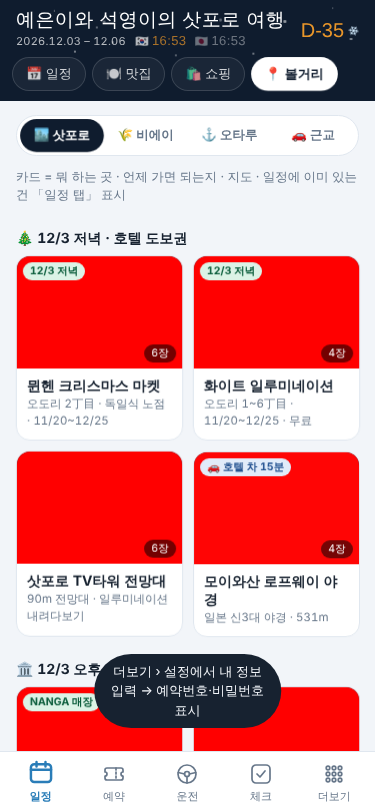
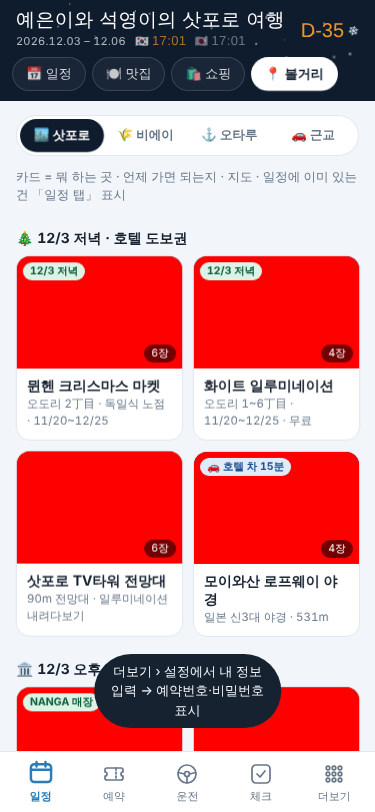
눈오리 제거
Claude-Session: https://claude.ai/code/session_0184q9rKWaEqKmWB1tQ5ftUr

diff --git a/index.html b/index.html
@@ -414,28 +414,7 @@ tr.pick td{background:var(--lamp-soft);font-weight:700}
 @keyframes cardin{from{opacity:0;transform:translateY(12px) scale(.96)}}
 .schips button[aria-pressed="true"],.gchips button[aria-pressed="true"],.achips button[aria-pressed="true"],.seg button[aria-selected="true"]{animation:chip .32s cubic-bezier(.3,1.6,.5,1)}
 @keyframes chip{50%{transform:scale(1.08)}}
-.duck{position:fixed;left:100%;bottom:60px;width:56px;height:48px;z-index:19;padding:0;border:0;background:none;transform:translateX(0);transition-property:transform;transition-timing-function:linear;-webkit-tap-highlight-color:transparent}
-.duck[hidden]{display:none}
-.duck svg{width:56px;height:48px;overflow:visible;display:block;transform-origin:50% 92%}
-.duck.mv svg{animation:wad .42s ease-in-out infinite}
-.duck .ft1,.duck .ft2{transform-box:fill-box;transform-origin:50% 0}
-.duck.mv .ft1{animation:step .42s ease-in-out infinite}
-.duck.mv .ft2{animation:step .42s ease-in-out infinite reverse}
-.duck .hd2{transform-box:fill-box;transform-origin:70% 90%}
-.duck.look .hd2{animation:look 2.2s ease-in-out}
-.duck .eye{transform-box:fill-box;transform-origin:center;animation:blink 3.6s infinite}
-.duck.hop svg{animation:hop .5s cubic-bezier(.3,1.5,.5,1)}
-.duck.flip svg{scale:-1 1}
-.duck .bub{position:absolute;left:-6px;top:-24px;font:800 12px/1 var(--f);color:var(--ink);background:var(--card);border:1.5px solid var(--line);border-radius:10px;padding:4px 7px;white-space:nowrap;opacity:0;transform:translateY(4px) scale(.8);transition:opacity .2s,transform .25s cubic-bezier(.3,1.6,.5,1);pointer-events:none}
-.duck .bub.on{opacity:1;transform:none}
-.duck .pf{position:absolute;width:5px;height:5px;border-radius:50%;background:#dbeefc;left:24px;top:18px;pointer-events:none;animation:puff .7s ease-out forwards}
-@keyframes puff{to{transform:translate(var(--x),var(--y)) scale(.4);opacity:0}}
-@keyframes wad{0%,100%{rotate:-6deg}50%{rotate:6deg}}
-@keyframes step{50%{transform:scaleY(.4)}}
-@keyframes look{20%,40%{rotate:-14deg}60%,80%{rotate:10deg}}
-@keyframes blink{0%,46%,50%,100%{transform:scaleY(1)}48%{transform:scaleY(.1)}}
-@keyframes hop{40%{transform:translateY(-16px) rotate(-8deg)}70%{transform:translateY(0) scaleY(.88)}}
-@media (prefers-reduced-motion:reduce){.hsnow,.hero #snow,.duck{display:none}.fgrid .fc,.dday::after{animation:none}}
+@media (prefers-reduced-motion:reduce){.hsnow,.hero #snow{display:none}.fgrid .fc,.dday::after{animation:none}}
 </style>
 </head>
 <body>
@@ -731,10 +710,10 @@ tr.pick td{background:var(--lamp-soft);font-weight:700}
 <h3 class="sec">📴 오프라인</h3>
 <div class="form"><div class="st" id="off-st">앱 화면·글은 자동 저장됨 · 사진 저장 확인 중…</div><div class="btns"><button id="off-b">사진 지금 받기</button></div></div>
 <p class="hint">입력한 값·체크·도장은 이 폰 브라우저에만 저장되고 파일·깃허브에는 올라가지 않음</p>
-<p class="hint">장소 사진 · Wikimedia Commons (팝업에 원본 링크) · 버전 20261029-1653</p>
+<p class="hint">장소 사진 · Wikimedia Commons (팝업에 원본 링크) · 버전 20261029-1701</p>
 </div></section>
 </main>
-<button class="duck" id="duck" type="button" aria-label="눈오리" hidden><span class="bub" id="bub">꽥!</span><svg viewBox="0 0 60 50" aria-hidden="true"><ellipse class="ft1" cx="26" cy="47" rx="3.6" ry="2" fill="#f4a340"/><ellipse class="ft2" cx="38" cy="47" rx="3.6" ry="2" fill="#f4a340"/><path d="M50 30 L59 22 L55 34 Z" fill="#fff" stroke="#c9d7e3" stroke-width="1.4" stroke-linejoin="round"/><ellipse cx="33" cy="34" rx="22" ry="13.5" fill="#fff" stroke="#c9d7e3" stroke-width="1.5"/><path d="M33 32 q8 -7 14 2 q-7 5 -14 -2z" fill="#eef4f9" stroke="#c9d7e3" stroke-width="1.2"/><circle cx="40" cy="40" r="1" fill="#dce6ee"/><circle cx="27" cy="42" r=".9" fill="#dce6ee"/><g class="hd2"><path d="M9 26 q8 6 18 -1 l1 4 q-10 6 -19 1z" fill="#e5484d"/><path d="M24 27 l4 8 l-5 -1z" fill="#e5484d"/><circle cx="16" cy="17" r="11" fill="#fff" stroke="#c9d7e3" stroke-width="1.5"/><ellipse cx="4.6" cy="19.5" rx="5.2" ry="3.1" fill="#f4a340"/><path d="M1 19.6 h8" stroke="#d98a2b" stroke-width=".9"/><g class="eye"><circle cx="12.6" cy="14.6" r="1.9" fill="#1d2733"/><circle cx="13.2" cy="14" r=".6" fill="#fff"/></g><circle cx="16.8" cy="21" r="2.5" fill="#ffb3c1" opacity=".75"/><path d="M15 6.5 q2 -4 5 -1" fill="none" stroke="#c9d7e3" stroke-width="1.3" stroke-linecap="round"/></g></svg></button><nav class="bn" aria-label="메뉴">
+<nav class="bn" aria-label="메뉴">
 <button data-v="day"><svg viewBox="0 0 24 24"><rect x="3" y="5" width="18" height="16" rx="3"/><path d="M3 10h18M8 3v4M16 3v4"/></svg>일정</button><button data-v="book"><svg viewBox="0 0 24 24"><path d="M3 8a2 2 0 0 1 2-2h14a2 2 0 0 1 2 2v2a2 2 0 0 0 0 4v2a2 2 0 0 1-2 2H5a2 2 0 0 1-2-2v-2a2 2 0 0 0 0-4z"/><path d="M14 6v12" stroke-dasharray="2 2"/></svg>예약</button><button data-v="drive"><svg viewBox="0 0 24 24"><circle cx="12" cy="12" r="9"/><circle cx="12" cy="12" r="2.5"/><path d="M3.2 10.5 9.6 12M20.8 10.5 14.4 12M12 14.5V21"/></svg>운전</button><button data-v="check"><svg viewBox="0 0 24 24"><rect x="3" y="3" width="18" height="18" rx="4"/><path d="m8 12 3 3 5-6"/></svg>체크</button><button data-v="more"><svg viewBox="0 0 24 24"><circle cx="6" cy="6" r="1.8"/><circle cx="12" cy="6" r="1.8"/><circle cx="18" cy="6" r="1.8"/><circle cx="6" cy="12" r="1.8"/><circle cx="12" cy="12" r="1.8"/><circle cx="18" cy="12" r="1.8"/><circle cx="6" cy="18" r="1.8"/><circle cx="12" cy="18" r="1.8"/><circle cx="18" cy="18" r="1.8"/></svg>더보기</button>
 </nav>
 <div class="lb" id="lb" role="dialog" aria-modal="true"><button class="x" id="lbx" aria-label="닫기">✕</button><figure><img id="lbi" alt=""><div class="st" id="lbs"></div><figcaption id="lbc"></figcaption></figure></div>
@@ -914,36 +893,6 @@ tr.pick td{background:var(--lamp-soft);font-weight:700}
   var hs=$('#hsnow'),hd=$('.hd');
   (function(){if(!hs)return;var h='';for(var i=0;i<16;i++){var w=(Math.random()*1.8+1.2).toFixed(1),d=(Math.random()*7+8).toFixed(1),dl=(-Math.random()*15).toFixed(1),o=(Math.random()*.35+.25).toFixed(2);h+='<i style="left:'+(Math.random()*100).toFixed(1)+'%;width:'+w+'px;height:'+w+'px;opacity:'+o+';animation-duration:'+d+'s;animation-delay:'+dl+'s"></i>'}hs.innerHTML=h})();
   function hsH(){if(hs&&hd)hs.style.setProperty('--hh',hd.offsetHeight+'px')}hsH();window.addEventListener('resize',hsH);
-  /* 눈오리 산책 */
-  (function(){
-    var dk=$('#duck'),bub=$('#bub'),bn=$('.bn');if(!dk)return;
-    var rm=window.matchMedia&&window.matchMedia('(prefers-reduced-motion: reduce)').matches;if(rm)return;
-    var busy=false,tm=[];
-    function later(f,ms){tm.push(setTimeout(f,ms))}
-    function place(){dk.style.bottom=((bn&&bn.offsetHeight)||60)-4+'px'}
-    function go(x,sec,cb){dk.classList.add('mv');dk.style.transitionDuration=sec+'s';dk.style.transform='translateX('+x+'px)';later(function(){dk.classList.remove('mv');cb&&cb()},sec*1000)}
-    function sheetOpen(){var sh=$('#sheet');return sh&&!sh.hidden}
-    function walk(){
-      if(busy||document.hidden||sheetOpen()){later(walk,20000);return}
-      busy=true;place();var W=window.innerWidth;
-      dk.classList.remove('flip');dk.style.transitionDuration='0s';dk.style.transform='translateX(0)';dk.hidden=false;
-      void dk.offsetWidth;
-      var stop=-Math.round(W*(.35+Math.random()*.3));
-      later(function(){go(stop,Math.abs(stop)/62,function(){
-        dk.classList.add('look');
-        later(function(){dk.classList.remove('look');
-          if(Math.random()<.35){dk.classList.add('flip');go(0,Math.abs(stop)/70,done)}
-          else go(-W-70,(W+70+stop)/66,done)},2300)})},60);
-    }
-    function done(){dk.hidden=true;dk.classList.remove('flip');busy=false;later(walk,35000+Math.random()*40000)}
-    var quacks=['꽥!','꽥꽥!','눈 온다 ❄','삿포로 가자!','예은 석영 화이팅!','시라코 먹자 🐟','D-'+(($('#dday')&&$('#dday').textContent.replace(/[^0-9]/g,''))||'?')+'!'];
-    dk.addEventListener('click',function(e){e.stopPropagation();dk.classList.remove('hop');void dk.offsetWidth;dk.classList.add('hop');
-      bub.textContent=quacks[Math.floor(Math.random()*quacks.length)];bub.classList.add('on');setTimeout(function(){bub.classList.remove('on')},1300);
-      for(var i=0;i<7;i++){var f=document.createElement('i');f.className='pf';var a=Math.random()*Math.PI*2,r=18+Math.random()*16;f.style.setProperty('--x',Math.cos(a)*r+'px');f.style.setProperty('--y',Math.sin(a)*r-8+'px');dk.appendChild(f);setTimeout(function(n){return function(){n.remove()}}(f),750)}
-      if(typeof buzz==='function')buzz(8)});
-    window.addEventListener('resize',place);
-    later(walk,5000);
-  })();
   function theme(t){t=(t==='dark'||t==='auto')?t:'light';document.documentElement.dataset.theme=t;$$('#theme button').forEach(function(b){b.classList.toggle('pri',b.dataset.t===t)});ls.set('sg-theme',t)}
   $$('#theme button').forEach(function(b){b.addEventListener('click',function(){theme(b.dataset.t);flash('다크 모드 '+b.textContent)})});
   theme(ls.get('sg-theme'));

diff --git a/sw.js b/sw.js
@@ -1,4 +1,4 @@
-const V='sg-'+'20261029-1653';const IMG='sg-img',FONT='sg-font';
+const V='sg-'+'20261029-1701';const IMG='sg-img',FONT='sg-font';
 const CORE=['./','./index.html','./app.webmanifest','./icon-192.png','./icon-512.png','./icon-maskable.png','./apple-touch-icon.png','./bus.jpg'];
 self.addEventListener('install',e=>{e.waitUntil(caches.open(V).then(c=>c.addAll(CORE)).then(()=>self.skipWaiting()))});
 self.addEventListener('activate',e=>{e.waitUntil(caches.keys().then(ks=>Promise.all(ks.filter(k=>k.startsWith('sg-')&&k!==V&&k!==IMG&&k!==FONT).map(k=>caches.delete(k)))).then(()=>self.clients.claim()))});

diff --git a/build.py b/build.py
@@ -1503,28 +1503,7 @@ tr.pick td{background:var(--lamp-soft);font-weight:700}
 @keyframes cardin{from{opacity:0;transform:translateY(12px) scale(.96)}}
 .schips button[aria-pressed="true"],.gchips button[aria-pressed="true"],.achips button[aria-pressed="true"],.seg button[aria-selected="true"]{animation:chip .32s cubic-bezier(.3,1.6,.5,1)}
 @keyframes chip{50%{transform:scale(1.08)}}
-.duck{position:fixed;left:100%;bottom:60px;width:56px;height:48px;z-index:19;padding:0;border:0;background:none;transform:translateX(0);transition-property:transform;transition-timing-function:linear;-webkit-tap-highlight-color:transparent}
-.duck[hidden]{display:none}
-.duck svg{width:56px;height:48px;overflow:visible;display:block;transform-origin:50% 92%}
-.duck.mv svg{animation:wad .42s ease-in-out infinite}
-.duck .ft1,.duck .ft2{transform-box:fill-box;transform-origin:50% 0}
-.duck.mv .ft1{animation:step .42s ease-in-out infinite}
-.duck.mv .ft2{animation:step .42s ease-in-out infinite reverse}
-.duck .hd2{transform-box:fill-box;transform-origin:70% 90%}
-.duck.look .hd2{animation:look 2.2s ease-in-out}
-.duck .eye{transform-box:fill-box;transform-origin:center;animation:blink 3.6s infinite}
-.duck.hop svg{animation:hop .5s cubic-bezier(.3,1.5,.5,1)}
-.duck.flip svg{scale:-1 1}
-.duck .bub{position:absolute;left:-6px;top:-24px;font:800 12px/1 var(--f);color:var(--ink);background:var(--card);border:1.5px solid var(--line);border-radius:10px;padding:4px 7px;white-space:nowrap;opacity:0;transform:translateY(4px) scale(.8);transition:opacity .2s,transform .25s cubic-bezier(.3,1.6,.5,1);pointer-events:none}
-.duck .bub.on{opacity:1;transform:none}
-.duck .pf{position:absolute;width:5px;height:5px;border-radius:50%;background:#dbeefc;left:24px;top:18px;pointer-events:none;animation:puff .7s ease-out forwards}
-@keyframes puff{to{transform:translate(var(--x),var(--y)) scale(.4);opacity:0}}
-@keyframes wad{0%,100%{rotate:-6deg}50%{rotate:6deg}}
-@keyframes step{50%{transform:scaleY(.4)}}
-@keyframes look{20%,40%{rotate:-14deg}60%,80%{rotate:10deg}}
-@keyframes blink{0%,46%,50%,100%{transform:scaleY(1)}48%{transform:scaleY(.1)}}
-@keyframes hop{40%{transform:translateY(-16px) rotate(-8deg)}70%{transform:translateY(0) scaleY(.88)}}
-@media (prefers-reduced-motion:reduce){.hsnow,.hero #snow,.duck{display:none}.fgrid .fc,.dday::after{animation:none}}
+@media (prefers-reduced-motion:reduce){.hsnow,.hero #snow{display:none}.fgrid .fc,.dday::after{animation:none}}
 '''
 
 JS = r'''
@@ -1701,36 +1680,6 @@ JS = r'''
   var hs=$('#hsnow'),hd=$('.hd');
   (function(){if(!hs)return;var h='';for(var i=0;i<16;i++){var w=(Math.random()*1.8+1.2).toFixed(1),d=(Math.random()*7+8).toFixed(1),dl=(-Math.random()*15).toFixed(1),o=(Math.random()*.35+.25).toFixed(2);h+='<i style="left:'+(Math.random()*100).toFixed(1)+'%;width:'+w+'px;height:'+w+'px;opacity:'+o+';animation-duration:'+d+'s;animation-delay:'+dl+'s"></i>'}hs.innerHTML=h})();
   function hsH(){if(hs&&hd)hs.style.setProperty('--hh',hd.offsetHeight+'px')}hsH();window.addEventListener('resize',hsH);
-  /* 눈오리 산책 */
-  (function(){
-    var dk=$('#duck'),bub=$('#bub'),bn=$('.bn');if(!dk)return;
-    var rm=window.matchMedia&&window.matchMedia('(prefers-reduced-motion: reduce)').matches;if(rm)return;
-    var busy=false,tm=[];
-    function later(f,ms){tm.push(setTimeout(f,ms))}
-    function place(){dk.style.bottom=((bn&&bn.offsetHeight)||60)-4+'px'}
-    function go(x,sec,cb){dk.classList.add('mv');dk.style.transitionDuration=sec+'s';dk.style.transform='translateX('+x+'px)';later(function(){dk.classList.remove('mv');cb&&cb()},sec*1000)}
-    function sheetOpen(){var sh=$('#sheet');return sh&&!sh.hidden}
-    function walk(){
-      if(busy||document.hidden||sheetOpen()){later(walk,20000);return}
-      busy=true;place();var W=window.innerWidth;
-      dk.classList.remove('flip');dk.style.transitionDuration='0s';dk.style.transform='translateX(0)';dk.hidden=false;
-      void dk.offsetWidth;
-      var stop=-Math.round(W*(.35+Math.random()*.3));
-      later(function(){go(stop,Math.abs(stop)/62,function(){
-        dk.classList.add('look');
-        later(function(){dk.classList.remove('look');
-          if(Math.random()<.35){dk.classList.add('flip');go(0,Math.abs(stop)/70,done)}
-          else go(-W-70,(W+70+stop)/66,done)},2300)})},60);
-    }
-    function done(){dk.hidden=true;dk.classList.remove('flip');busy=false;later(walk,35000+Math.random()*40000)}
-    var quacks=['꽥!','꽥꽥!','눈 온다 ❄','삿포로 가자!','예은 석영 화이팅!','시라코 먹자 🐟','D-'+(($('#dday')&&$('#dday').textContent.replace(/[^0-9]/g,''))||'?')+'!'];
-    dk.addEventListener('click',function(e){e.stopPropagation();dk.classList.remove('hop');void dk.offsetWidth;dk.classList.add('hop');
-      bub.textContent=quacks[Math.floor(Math.random()*quacks.length)];bub.classList.add('on');setTimeout(function(){bub.classList.remove('on')},1300);
-      for(var i=0;i<7;i++){var f=document.createElement('i');f.className='pf';var a=Math.random()*Math.PI*2,r=18+Math.random()*16;f.style.setProperty('--x',Math.cos(a)*r+'px');f.style.setProperty('--y',Math.sin(a)*r-8+'px');dk.appendChild(f);setTimeout(function(n){return function(){n.remove()}}(f),750)}
-      if(typeof buzz==='function')buzz(8)});
-    window.addEventListener('resize',place);
-    later(walk,5000);
-  })();
   function theme(t){t=(t==='dark'||t==='auto')?t:'light';document.documentElement.dataset.theme=t;$$('#theme button').forEach(function(b){b.classList.toggle('pri',b.dataset.t===t)});ls.set('sg-theme',t)}
   $$('#theme button').forEach(function(b){b.addEventListener('click',function(){theme(b.dataset.t);flash('다크 모드 '+b.textContent)})});
   theme(ls.get('sg-theme'));
@@ -1821,7 +1770,7 @@ PAGE=f'''<!doctype html>
 {view('check',[('todo','✅ 할 일',TODO),('pack','🎒 짐',PACK)])}
 {view('more',[('jp','🗣 일본어',JP),('cost','💴 비용',COST),('info','☎ 연락처',INFO),('set','⚙ 설정',SET)])}
 </main>
-<button class="duck" id="duck" type="button" aria-label="눈오리" hidden><span class="bub" id="bub">꽥!</span><svg viewBox="0 0 60 50" aria-hidden="true"><ellipse class="ft1" cx="26" cy="47" rx="3.6" ry="2" fill="#f4a340"/><ellipse class="ft2" cx="38" cy="47" rx="3.6" ry="2" fill="#f4a340"/><path d="M50 30 L59 22 L55 34 Z" fill="#fff" stroke="#c9d7e3" stroke-width="1.4" stroke-linejoin="round"/><ellipse cx="33" cy="34" rx="22" ry="13.5" fill="#fff" stroke="#c9d7e3" stroke-width="1.5"/><path d="M33 32 q8 -7 14 2 q-7 5 -14 -2z" fill="#eef4f9" stroke="#c9d7e3" stroke-width="1.2"/><circle cx="40" cy="40" r="1" fill="#dce6ee"/><circle cx="27" cy="42" r=".9" fill="#dce6ee"/><g class="hd2"><path d="M9 26 q8 6 18 -1 l1 4 q-10 6 -19 1z" fill="#e5484d"/><path d="M24 27 l4 8 l-5 -1z" fill="#e5484d"/><circle cx="16" cy="17" r="11" fill="#fff" stroke="#c9d7e3" stroke-width="1.5"/><ellipse cx="4.6" cy="19.5" rx="5.2" ry="3.1" fill="#f4a340"/><path d="M1 19.6 h8" stroke="#d98a2b" stroke-width=".9"/><g class="eye"><circle cx="12.6" cy="14.6" r="1.9" fill="#1d2733"/><circle cx="13.2" cy="14" r=".6" fill="#fff"/></g><circle cx="16.8" cy="21" r="2.5" fill="#ffb3c1" opacity=".75"/><path d="M15 6.5 q2 -4 5 -1" fill="none" stroke="#c9d7e3" stroke-width="1.3" stroke-linecap="round"/></g></svg></button><nav class="bn" aria-label="메뉴">
+<nav class="bn" aria-label="메뉴">
 <button data-v="day">{ICONS['day']}일정</button><button data-v="book">{ICONS['book']}예약</button><button data-v="drive">{ICONS['drive']}운전</button><button data-v="check">{ICONS['check']}체크</button><button data-v="more">{ICONS['more']}더보기</button>
 </nav>
 <div class="lb" id="lb" role="dialog" aria-modal="true"><button class="x" id="lbx" aria-label="닫기">✕</button><figure><img id="lbi" alt=""><div class="st" id="lbs"></div><figcaption id="lbc"></figcaption></figure></div>
